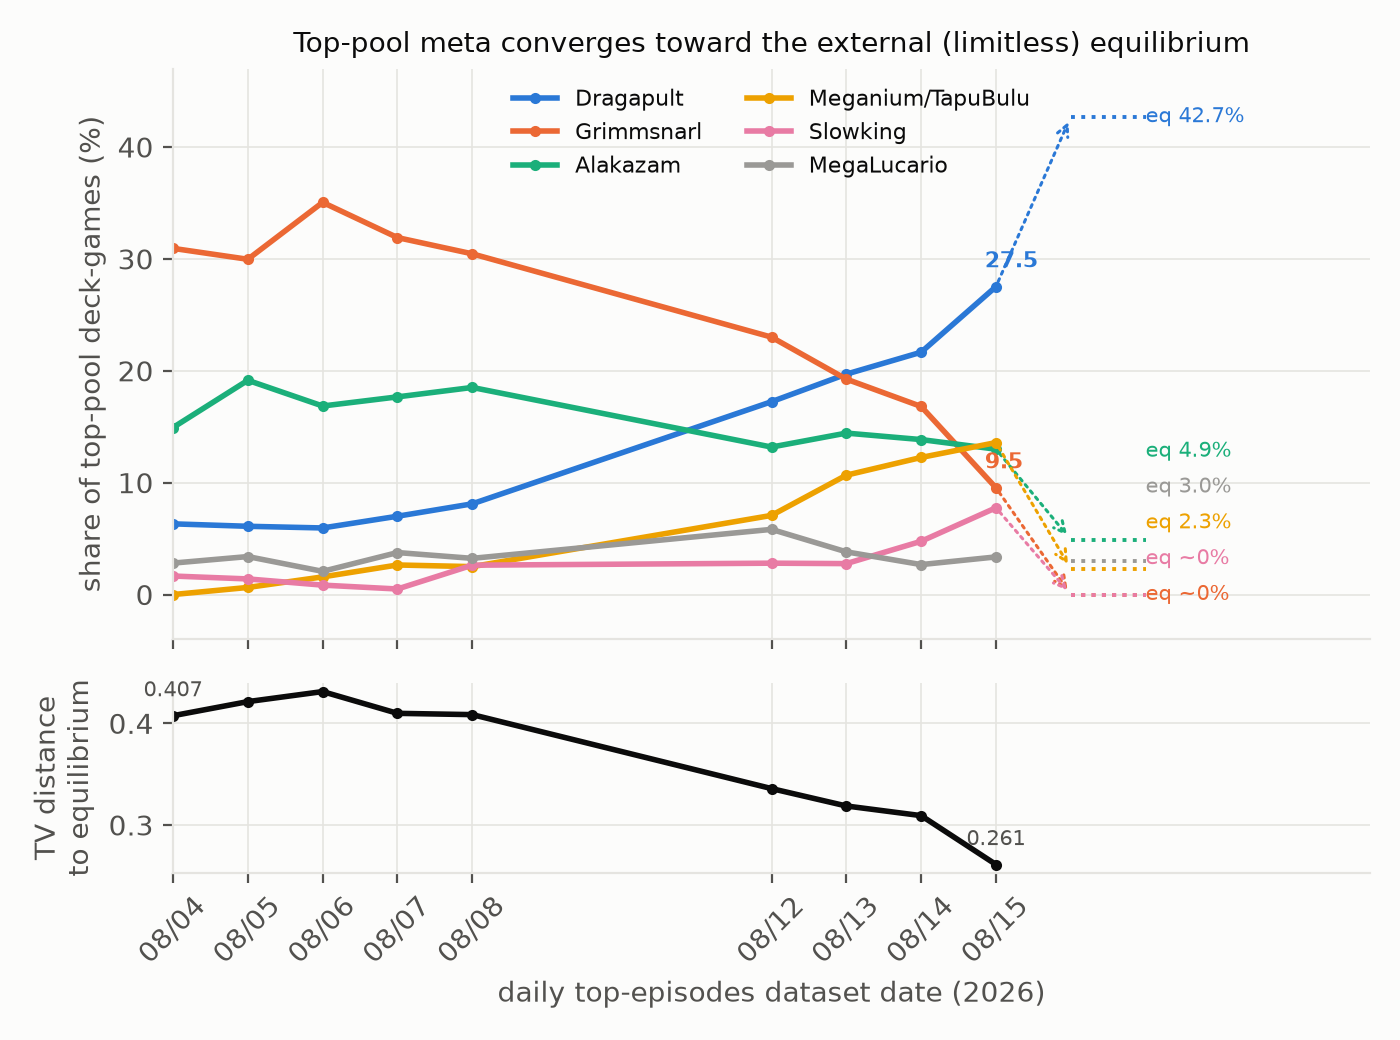
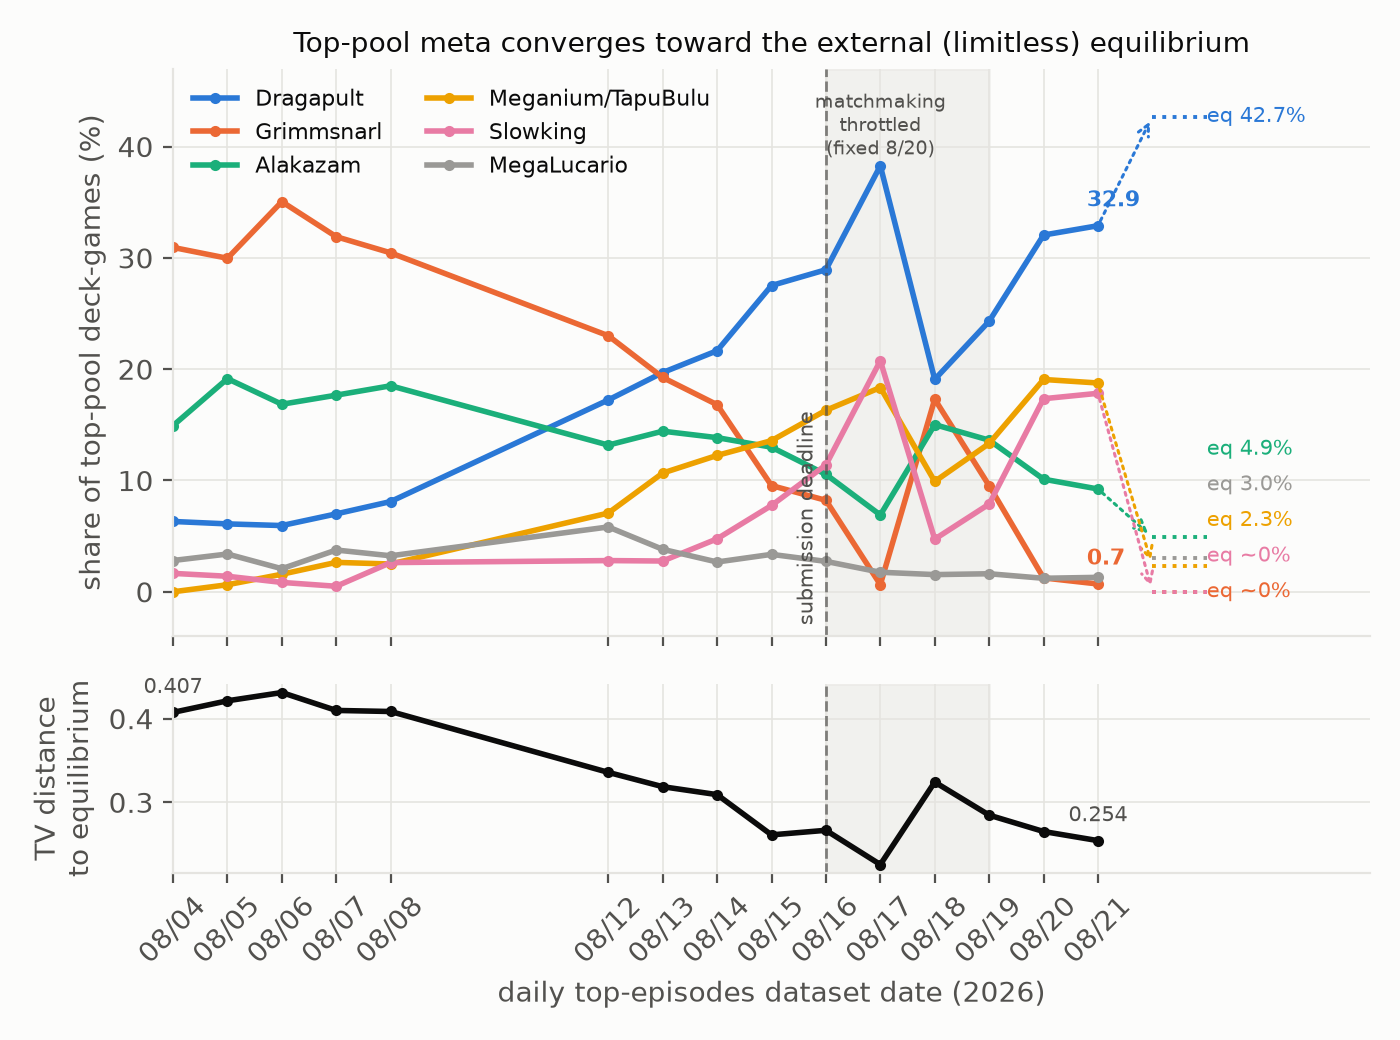
그림 C 마감 후 연장(15시점) + rank 추적 신설: 예측→실현 완성
- 데일리 8/16~21 6개 수급·마이닝 → fig_meta_convergence 연장: Dragapult 32.9%,
  Grimmsnarl 0.7%(균형 도달), TV 0.254 신저점 — 결과 4 예측 실측 전환
- 스로틀 구간(8/17~18, 공식 수정 8/20) 음영·주석 처리, 마감선 표시
- watch_rank.py: LB 순위·팀수·메달 컷 일일 기록 (첫 스냅샷 1395/6809, 퍼지 실증)
- draft-context §4·§6, community-scan §5 갱신

diff --git a/scripts/watch_rank.py b/scripts/watch_rank.py
@@ -1,0 +1,77 @@
+#!/usr/bin/env python3
+"""일일 LB 순위 스냅샷을 기록한다 (마감 후 수렴 관전 + anti-cheat 퍼지 추적).
+
+공개 리더보드 CSV를 받아 우리 팀(팀ID 16662405, aisamhottman)의 순위·점수와
+메달 컷 경계 점수(Kaggle 규칙: 1000팀+ 기준 gold=10+0.2%n, silver=5%n,
+bronze=10%n)를 `submissions/rank_history.tsv`에 append한다.
+
+    uv run python scripts/watch_rank.py
+
+계기: 8/22 공식 공지 — anti-cheat 퍼지로 팀이 LB에서 제거되며 순위가 수동
+상승할 수 있다(topic 735312). Writeup 서두의 최종 순위 수치가 여기서 나온다.
+"""
+
+import csv
+import io
+import subprocess
+import sys
+import tempfile
+import zipfile
+from datetime import UTC, datetime
+from pathlib import Path
+
+TEAM_ID = "16662405"
+COMPETITION = "pokemon-tcg-ai-battle"
+ROOT = Path(__file__).resolve().parent.parent
+LOG = ROOT / "submissions" / "rank_history.tsv"
+
+
+def fetch_rows() -> list[dict]:
+    with tempfile.TemporaryDirectory() as tmp:
+        subprocess.run(
+            ["uv", "run", "kaggle", "competitions", "leaderboard", COMPETITION,
+             "--download", "-p", tmp],
+            check=True, capture_output=True, cwd=ROOT,
+        )
+        zips = list(Path(tmp).glob("*.zip"))
+        if not zips:
+            raise RuntimeError("leaderboard zip not downloaded")
+        with zipfile.ZipFile(zips[0]) as z:
+            name = next(n for n in z.namelist() if n.endswith(".csv"))
+            text = z.read(name).decode("utf-8-sig")
+    return list(csv.DictReader(io.StringIO(text)))
+
+
+def main() -> int:
+    rows = fetch_rows()
+    total = len(rows)
+    me = next((r for r in rows if r["TeamId"] == TEAM_ID), None)
+    if me is None:
+        print(f"ERROR: team {TEAM_ID} not on leaderboard ({total} teams)")
+        return 1
+    gold_n = 10 + int(0.002 * total)
+    silver_n = int(0.05 * total)
+    bronze_n = int(0.10 * total)
+    cuts = {}
+    for label, boundary in (("gold", gold_n), ("silver", silver_n), ("bronze", bronze_n)):
+        cuts[label] = float(rows[boundary - 1]["Score"]) if boundary <= total else float("nan")
+    stamp = datetime.now(UTC).strftime("%Y-%m-%dT%H:%M:%SZ")
+    if not LOG.exists():
+        LOG.write_text(
+            "checked_at_utc\trank\tteams\tscore\tgold_cut\tsilver_cut\tbronze_cut\n"
+        )
+    with LOG.open("a", encoding="utf-8") as f:
+        f.write(
+            f"{stamp}\t{me['Rank']}\t{total}\t{me['Score']}\t"
+            f"{cuts['gold']:.1f}\t{cuts['silver']:.1f}\t{cuts['bronze']:.1f}\n"
+        )
+    print(
+        f"[{stamp}] rank={me['Rank']}/{total} score={me['Score']} "
+        f"cuts: gold {cuts['gold']:.1f} (top {gold_n}) / silver {cuts['silver']:.1f} "
+        f"(top {silver_n}) / bronze {cuts['bronze']:.1f} (top {bronze_n})"
+    )
+    return 0
+
+
+if __name__ == "__main__":
+    sys.exit(main())

diff --git a/scripts/report_figures.py b/scripts/report_figures.py
@@ -342,11 +342,28 @@ def cmd_meta(args: argparse.Namespace) -> None:
                 fontsize=8,
                 fontweight="bold",
             )
+    deadline = dt.date(2026, 8, 16)
+    if dates[-1] > deadline:
+        for a in (ax, ax_tv):
+            a.axvline(deadline, color=TEXT_2, linewidth=1.0, linestyle="--", alpha=0.7)
+            # 8/17~19 데일리는 매치메이킹 스로틀 구간(공식 수정 8/20, topic 735822)
+            # 의 표집이라 상위 풀 구성이 흔들린다 — 아티팩트임을 그림에 명시.
+            a.axvspan(dt.date(2026, 8, 16, ), dt.date(2026, 8, 19), color=GRID, alpha=0.45, zorder=0)
+        ax.annotate(
+            "submission deadline",
+            (deadline, -3), ha="right", va="bottom", rotation=90,
+            color=TEXT_2, fontsize=7.5, xytext=(-3, 0), textcoords="offset points",
+        )
+        ax.annotate(
+            "matchmaking\nthrottled\n(fixed 8/20)",
+            (dt.date(2026, 8, 17) + dt.timedelta(hours=12), 45), ha="center", va="top",
+            color=TEXT_2, fontsize=7,
+        )
     ax.set_xlim(dates[0] - dt.timedelta(days=0.5), dates[-1] + dt.timedelta(days=5.2))
     ax.set_ylim(-4, 47)
     ax.set_ylabel("share of top-pool deck-games (%)")
     ax.set_title("Top-pool meta converges toward the external (limitless) equilibrium", fontsize=10)
-    ax.legend(frameon=False, fontsize=8, ncol=2, loc="upper center")
+    ax.legend(frameon=False, fontsize=8, ncol=2, loc="upper left")
     ax.set_xticks(dates)
     ax.set_xticklabels([d.strftime("%m/%d") for d in dates], fontsize=8)
     ax_tv.tick_params(axis="x", labelrotation=45)

diff --git a/docs/ptcg/writeup/draft-context.md b/docs/ptcg/writeup/draft-context.md
@@ -50,7 +50,7 @@
 |---|---|---|
 | A. 캐스케이드+5수술 부위 | fork_policy.py 구조 | ✅ **완료 (8/21)**: `figures/fig_cascade_surgeries.png`, `report_figures.py cascade` |
 | B. 빌드별 인스턴스 분포 | submissions/rating_history.tsv + 09-submission-log.md | 스트립 플롯 신규 (8/31) |
-| C. 메타 수렴 시계열 | 데일리 zip 9개(8/04~08·12~15) → `mine_episodes.py deck-stats --out scratch/decks_*.json` → `report_figures.py meta` | ✅ **완료 (8/21)**: `figures/fig_meta_convergence.png` |
+| C. 메타 수렴 시계열 | 데일리 zip 15개(8/04~08·12~21, 마감 후 6일 포함) → `mine_episodes.py deck-stats --out scratch/decks_*.json` → `report_figures.py meta` | ✅ **완료 (8/21, 8/22 마감 후 연장)**: `figures/fig_meta_convergence.png` — 8/30 확정 전 데일리 추가 시 동일 파이프라인 재실행 |
 | D. 좌석×아키타입 | 기존 fig_seat_split/fig_by_opponent | `scripts/report_figures.py seats/opponents` 갱신 |
 | E. 래더 궤적+이벤트 주석 | research_loop/ladder/*.json (i5 스파이크 포함 과거 sid도 fetch 가능) | `report_figures.py ladder` + 주석 |
 
@@ -59,6 +59,7 @@
 - 9개 데일리 전부를 정정판 규약(전량 집계, 분모=덱-게임)으로 재계산. 8/12~15 셰어는 결과 5 표와 일치. **결과 4의 8/04~08 값(구 파이프라인)은 그림과 다름** — 초안 본문은 그림 시계열을 인용할 것 (예: Dragapult 6.3→27.5%는 동일, Grimmsnarl은 30.9→9.5%로 쓰는 게 그림과 일치).
 - TV(6종 매핑, limitless 균형 대비)도 재계산: **0.407(8/04) → 0.431(8/06 정점) → 0.309(8/14) → 0.261(8/15)**. 문서의 구 수치 0.398/0.321을 대체. 초기(8/04~08)는 정체, **수렴은 8/12부터 가속** — "단조 수렴" 대신 "8/08 이후 단조"로 서술.
 - 그림 A 사실관계: 최종 빌드 h036 = fork + S1(H-024b 리썰 래퍼) + S5(boss_kill_now). 가드 3종(H-030/034/035)은 로컬 게이트 전승·래더 미번역으로 최종 미포함 (§5 정직 서사와 연결).
+- **마감 후 연장 실측 (8/22 추가, 예측→실현 완성)**: Dragapult 27.5→**32.9%**(8/21), **Grimmsnarl 0.7% = 균형(~0%) 도달**, Slowking 7.8→17.8%, Meganium 13.6→18.8%, 우리 Alakazam 13.0→9.2%(균형 4.9%로 수축 중), TV **0.254 신저점**. 결과 4의 예측("마감 후 풀은 더 Dragapult-heavy") 그대로 실현 — 그림 C의 화살표가 실측으로 대체됨. ⚠ 8/17~18 요동은 매치메이킹 스로틀 구간(공식 수정 8/20, topic 735822) 표집 아티팩트 — 그림에 음영·주석 처리 완료, 본문 인용 시 8/20~21 값 사용.
 
 ## 5. 정직한 실패 목록 (What Didn't Work — §7 재료)
 
@@ -71,8 +72,10 @@
 ## 6. 지금부터 8/31까지 — 일일 수렴 루틴 (1분)
 
 ```bash
-uv run python scripts/watch_pair.py && uv run python scripts/kaggle_ops.py track-ratings
+uv run python scripts/watch_pair.py && uv run python scripts/kaggle_ops.py track-ratings && uv run python scripts/watch_rank.py
 ```
+
+- `watch_rank.py`(8/22 신설): LB 순위·팀 수·메달 컷을 `submissions/rank_history.tsv`에 기록. 계기 — 공식 anti-cheat 퍼지 공지(topic 735312)로 순위가 수동 상승 가능(8/16 6851팀 → 8/22 6809팀, 우리 1498→1395위, 브론즈 컷 840.4→834.5). Writeup 서두의 최종 순위·컷 수치가 여기서 나온다.
 
 - 주 2회쯤 `report_figures.py fetch-ladder --submission-ids 55525772,55525773`로 에피소드 원본 갱신.
 - 관측 포인트: ① 수렴 속도(마감 후 경기/일 — 8/17 오전 기준 idle 2.5~3.4h로 완만) ② i8/i9 격차의 수렴(동일 코드 두 인스턴스가 같은 값으로 모이는가 = 분포 방법론의 최종 검증) ③ 8/30경 최종 확정치.

diff --git a/docs/ptcg/research/2026-08-22-community-scan.md b/docs/ptcg/research/2026-08-22-community-scan.md
@@ -53,9 +53,9 @@
 - `kaggle/pokemon-tcg-ai-battle-episodes-2026-08-18`, `-2026-08-20` 존재 확인(8/22). 연장 기간에도 데일리 발행 지속.
 - → **그림 C를 8/16~8/21+로 연장 가능**: "마감 후 풀은 더 Dragapult-heavy할 것"(결과 4 예측 3)을 관측으로 전환. 예측→실현 화살표가 실측 연장선으로 대체되는, 그림 C의 최종 강화.
 
-## 5. 남은 기간 액션 제안 (우선순위순)
+## 5. 남은 기간 액션 제안 (우선순위순) — 8/22 당일 1·2·3 실행 완료
 
-1. **그림 C 연장** — 8/16~ 데일리 zip 수급 → `mine_episodes deck-stats` → `report_figures.py meta` 재실행 (파이프라인 그대로, 다운로드만 추가).
-2. **rank 추적 추가** — anti-cheat 퍼지로 순위 변동 가능. 일일 루틴에 LB rank 기록 1줄 추가.
-3. **draft-context 반영** — §2 서사에 3.1~3.5 인용 포인트 링크(이 문서 참조로 갈음 가능), §5 정직 섹션에 3.2·3.3 대비 구도.
+1. ✅ **그림 C 연장 (8/22 완료)** — 8/16~21 데일리 6개 수급·마이닝, `fig_meta_convergence.png` 15시점으로 재생성. **예측 실현: Dragapult 32.9%, Grimmsnarl 0.7%(균형 도달), TV 0.254 신저점.** 8/17~18 스로틀 아티팩트는 음영·주석 처리.
+2. ✅ **rank 추적 (8/22 완료)** — `scripts/watch_rank.py` 신설, `submissions/rank_history.tsv` 기록 시작. 첫 스냅샷: 1395/6809 (8/16 1498/6851 대비 상승 — 퍼지 시작 실증), 브론즈 컷 834.5.
+3. ✅ **draft-context 반영 (8/22 완료)** — §4 그림 표·연장 실측 수치, §6 루틴에 watch_rank 편입.
 4. (선택) topic 735649(내부 툴링), 736494(journey) 추가 스캔 — 우선순위 낮음.
